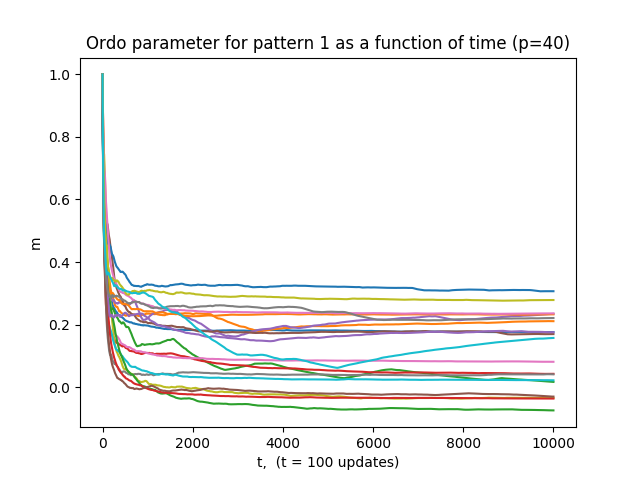
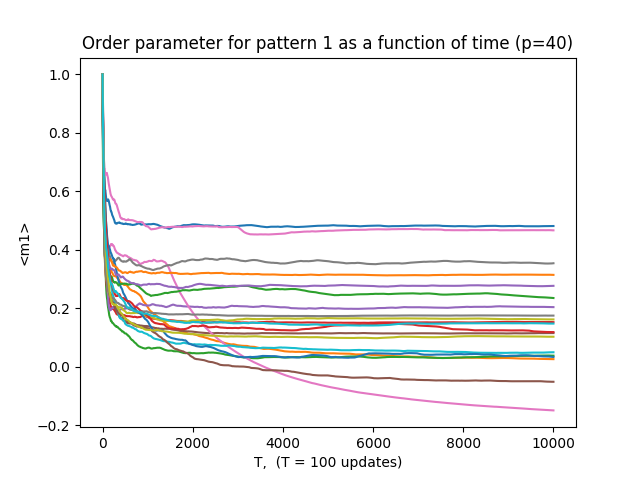
Screenshots of plots

diff --git a/ExamplesSheet1/task2.py b/ExamplesSheet1/task2.py
@@ -66,6 +66,7 @@ for i in range(0,20):
 	print(i)
 	network = AsyncHopfield()
 	network.init(N, P, 2)
+
 	network.calWeights()
 	network.feedInitPattern(0)
 	m = [1]
@@ -79,7 +80,7 @@ for i in range(0,20):
 for m in mCollection:
 	plt.plot(m)
 
-plt.title('Ordo parameter for pattern 1 as a function of time (p=40)')
-plt.xlabel('t,  (t = 100 updates)')
-plt.ylabel('m')
+plt.title('Order parameter for pattern 1 as a function of time (p=40)')
+plt.xlabel('T,  (T = 100 updates)')
+plt.ylabel('<m1>')
 plt.show()
